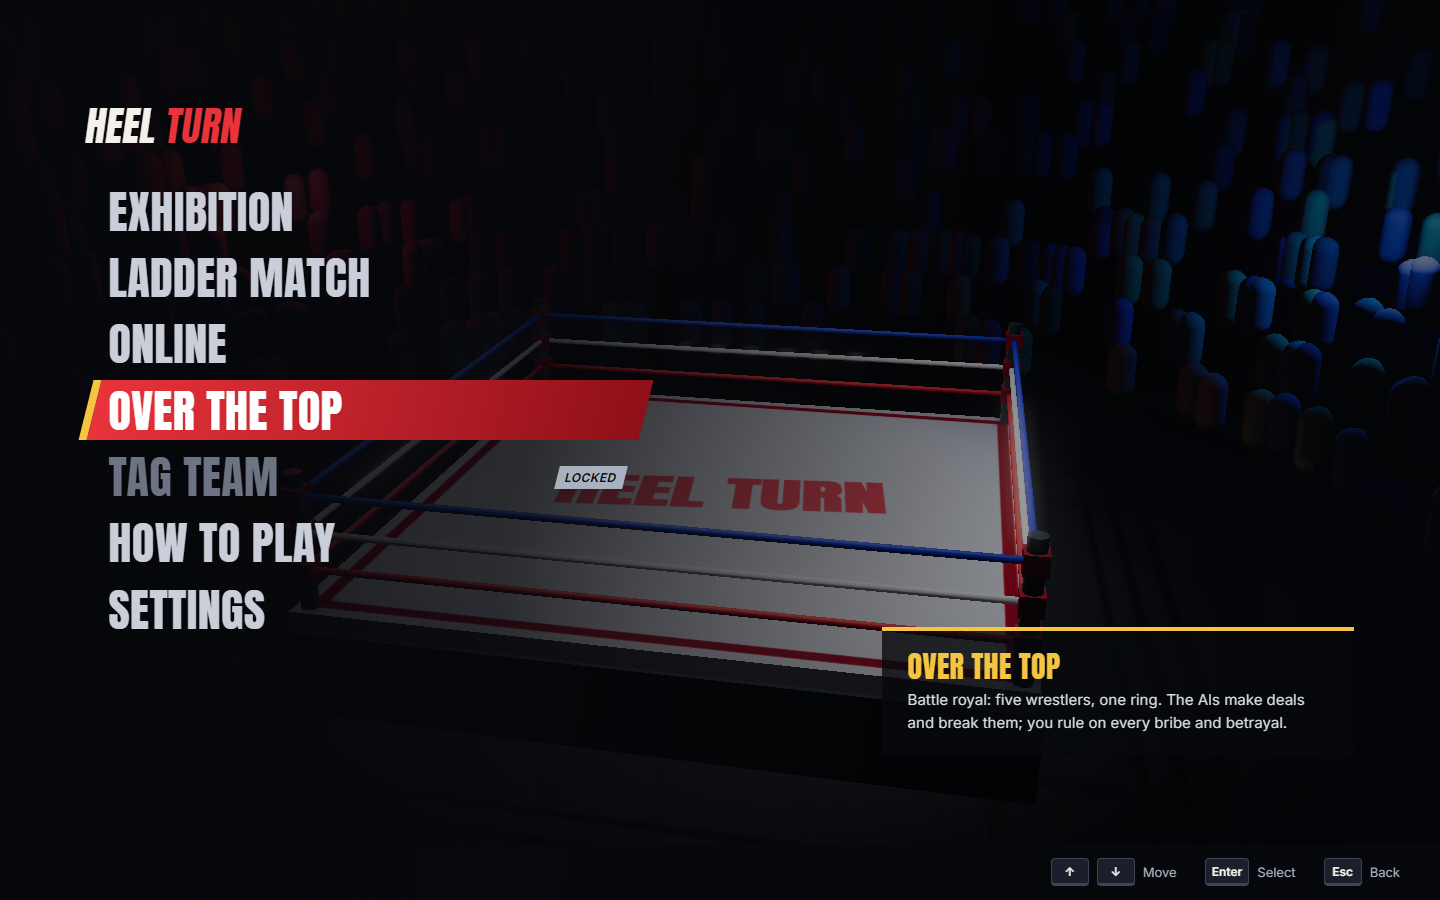
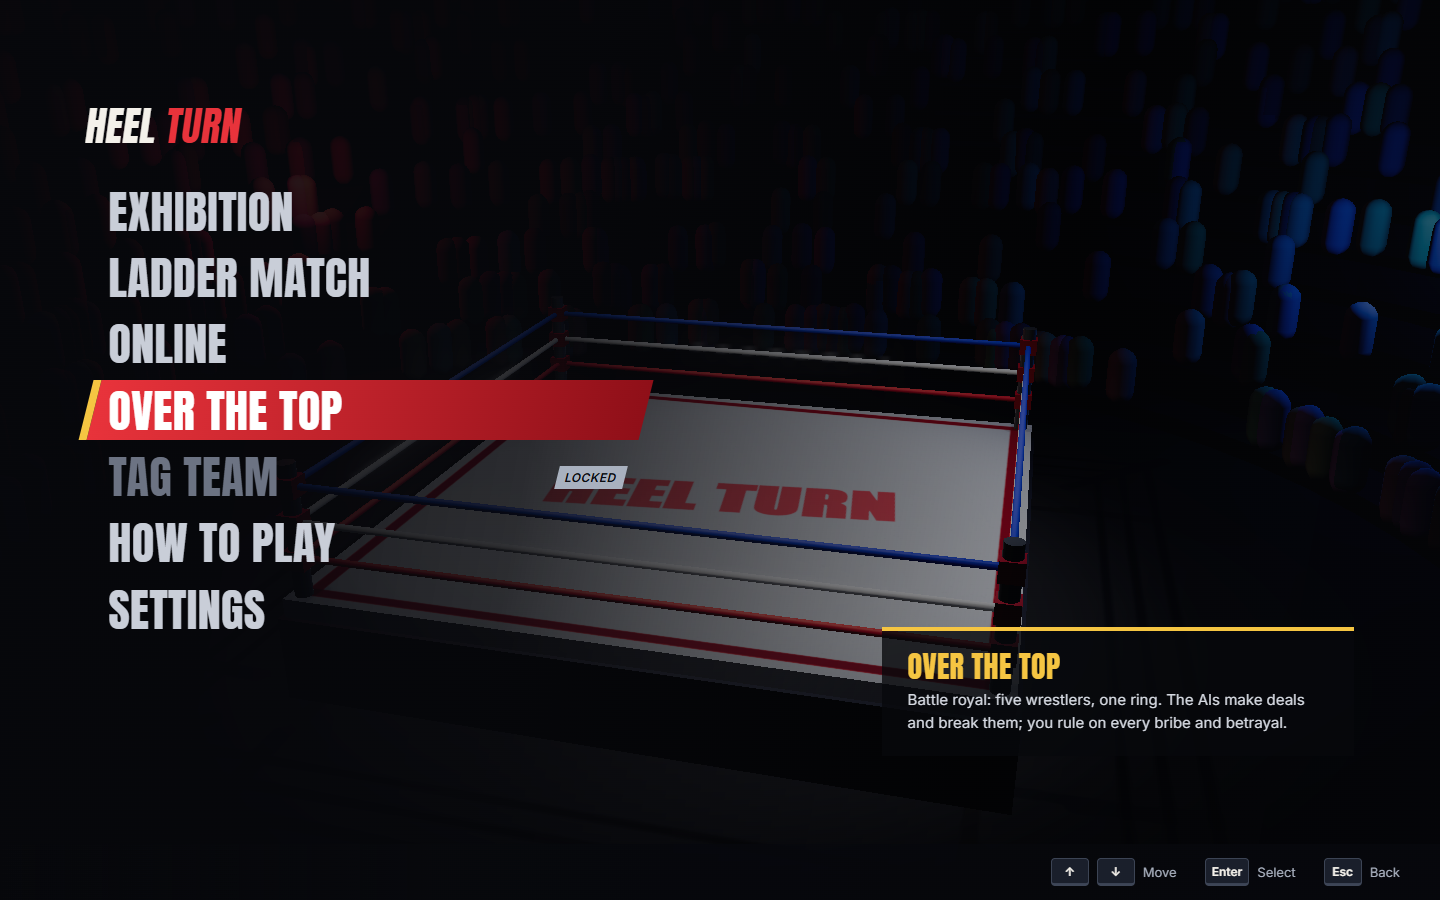
fix(royal): layout pass (rail log, odds closed by default, one-line keys, centred camera), named odds rows, betrayal that lands, feel impact attacker slot

diff --git a/game/royal-client.js b/game/royal-client.js
@@ -7,7 +7,7 @@ import './ui/odds.css';
 import './ui/royal.css';
 import { mountOdds } from './ui/odds.js';
 import { ROSTER_ASSETS } from './shared/roster-assets.js';
-import { adoptBand } from './shared/royal.js';
+import { adoptBand, snapshotRoyal } from './shared/royal.js';
 
 // The fifth body (Kid Riot): registered here so shared/roster-assets.js stays the attire lane's file.
 ROSTER_ASSETS.riot ||= {
@@ -29,22 +29,35 @@ export function createRoyalClient({ logRow, planHtml, decide }) {
 
   function el(tag, cls, html) { const n = document.createElement(tag); n.className = cls; if (html != null) n.innerHTML = html; return n; }
 
-  function start({ matchId, commissioner = true, online = false }) {
+  // humans: [{ slot, id }] so the book names them by their wrestler ("Kane (you)"), never "Player one".
+  function start({ matchId, commissioner = true, online = false, humans = [], mySlot = 0 }) {
     stop();
     document.body.classList.add('royal');
+    const keys = document.querySelector('.keys');
+    const keysHtml = keys?.innerHTML;
+    if (keys) keys.innerHTML = '<kbd>WASD</kbd> move <kbd>J</kbd> strike <kbd>K</kbd> grapple <kbd>L</kbd> block <kbd>Y</kbd>/<kbd>N</kbd> rule <kbd>O</kbd> odds';
+    const logH = document.querySelector('.log h4');
+    const toggleLog = () => document.body.classList.toggle('log-collapsed');
+    logH?.addEventListener('click', toggleLog);
     const strip = el('div', 'rr-strip'); strip.setAttribute('aria-label', 'Wrestlers in the battle royal');
     const card = el('section', 'rr-card'); card.setAttribute('role', 'alertdialog'); card.setAttribute('aria-live', 'assertive'); card.hidden = true;
     document.body.append(strip, card);
     let odds = null;
-    try { odds = mountOdds(document.body, { match: matchId, api: oddsApi() }); } catch (e) { debug.errors.push('odds ' + e.message); }
-    cur = { matchId, commissioner, online, odds, strip, card, shown: null, inFlight: false, nextAt: 0, last: {}, oddsOn: true };
-    setOdds(true);
+    const names = {};
+    humans.forEach((h, k) => {
+      const n = `${NAMES[h.id]} (${h.slot === mySlot ? 'you' : 'rival'})`;
+      names[ODDS_ID[h.id] || h.id] = n; names[`p${k + 1}`] = n;
+    });
+    try { odds = mountOdds(document.body, { match: matchId, api: oddsApi(), title: 'Over the Top', names }); } catch (e) { debug.errors.push('odds ' + e.message); }
+    cur = { matchId, commissioner, online, odds, strip, card, shown: null, inFlight: false, nextAt: 0, last: {}, oddsOn: false,
+      undo: () => { if (keys) keys.innerHTML = keysHtml; logH?.removeEventListener('click', toggleLog); } };
+    setOdds(false); // closed by default; O slides it over
     card.addEventListener('click', (e) => { const b = e.target.closest('[data-v]'); if (b) vote(b.dataset.v); });
   }
   function stop() {
     if (!cur) return;
-    cur.strip.remove(); cur.card.remove(); cur.odds?.destroy();
-    document.body.classList.remove('royal', 'odds-open');
+    cur.strip.remove(); cur.card.remove(); cur.odds?.destroy(); cur.undo();
+    document.body.classList.remove('royal', 'odds-open', 'banner-on', 'log-collapsed');
     cur = null;
   }
   function setOdds(on) { if (!cur) return; cur.oddsOn = on; cur.odds?.show(on); document.body.classList.toggle('odds-open', !!(on && cur.odds)); }
@@ -84,9 +97,9 @@ export function createRoyalClient({ logRow, planHtml, decide }) {
   function paintStrip(st) {
     const al = st.alliance;
     const rows = st.w.map((w, i) => {
-      const ally = al && (al.a === i ? al.b : al.b === i ? al.a : -1);
-      const tag = w.out ? 'OUT' : !w.entered ? (st.nextEntry != null && st.w.findIndex((x) => !x.entered) === i ? `IN ${Math.ceil(st.nextEntry)}s` : 'WAITING')
-        : ally >= 0 && ally !== undefined ? `WITH ${NAMES[st.w[ally].id].toUpperCase()}` : w.human ? 'YOU' : '';
+      const ally = !al ? -1 : al.a === i ? al.b : al.b === i ? al.a : -1;
+      const tag = w.out ? 'ELIMINATED' : !w.entered ? (st.nextEntry != null && st.w.findIndex((x) => !x.entered) === i ? `IN ${Math.ceil(st.nextEntry)}s` : 'WAITING')
+        : ally >= 0 ? `WITH ${NAMES[st.w[ally].id].toUpperCase()}` : w.human ? 'YOU' : '';
       const target = al && al.target === i && !w.out ? ' rr-hunted' : '';
       return `<div class="rr-w${w.out ? ' out' : ''}${!w.entered ? ' wait' : ''}${target}" style="--t:${TINT[w.id] || '#f5c542'}">
         <div class="rr-n">${esc(NAMES[w.id] || w.id)}${w.human ? '<b>P' + (i + 1) + '</b>' : ''}</div>
@@ -100,7 +113,11 @@ export function createRoyalClient({ logRow, planHtml, decide }) {
 
   function frame(st) {
     if (!cur || !st || st.mode !== 'royal') return;
+    if (st.proposals) st = snapshotRoyal(st); // exhibition hands us the match; online already a snapshot
     paintStrip(st); paintCard(st);
+    // big banners sit above everything; the decision log dims while one shows
+    const b = document.getElementById('banner');
+    document.body.classList.toggle('banner-on', !!b && Number(b.style.opacity) > 0.5);
   }
 
   // ---------- odds feed: entries, eliminations, the envelope and the turn ----------

diff --git a/game/shared/royal.js b/game/shared/royal.js
@@ -15,14 +15,16 @@
 // Events (besides sim.js's): agent {row}, alliance {a, b, target}, entrant {slot}, eliminated {slot, by},
 //   betrayal {by, on}, verdict {id, kind, decision, bandId}, bribe {decision}.
 import { T } from './tuning.js';
-import { ROSTER, RING, MAT_Y, INTRO_SECS, short } from './sim.js';
+import { ROSTER, RING, MAT_Y, INTRO_SECS, short as fullShort } from './sim.js';
 import { think } from './ai.js';
 import { onHit, impact, moveSpeed } from './drama.js';
 
 export const ROYAL_EXTRA = { riot: { name: 'Kid Riot', tint: 0xf59e0b } }; // the fifth body for a full card
 const CAST = { ...ROSTER, ...ROYAL_EXTRA };
+const CALL = { vex: 'Vex', kane: 'Kane', silas: 'Crane', mae: 'Mae', riot: 'Riot' }; // what the booth calls them
+const short = (w) => CALL[w.id] || fullShort(w);
 export const R = {
-  max: 5, startAi: 2, entryEvery: 8, bribeAt: 15, tossHp: 40, spentHp: 15,
+  max: 5, startAi: 2, entryEvery: 5, bribeAt: 15, tossHp: 40, spentHp: 15,
   betrayAge: 10, betrayHp: 70, betrayMaxAge: 18, lapse: 20, awaySecs: 10, foeEvery: 1.2,
 };
 const AI_ORDER = ['silas', 'vex', 'mae', 'kane', 'riot'];
@@ -146,6 +148,10 @@ function director(m, dt) {
   if (al) {
     const A = m.w[al.a], B = m.w[al.b], tgt = m.w[al.target];
     if (A.out || B.out) { m.alliance = null; }
+    else if (!m.w.some((w) => !w.out && w !== A && w !== B)) { // only the partners are left: it is every man for himself
+      m.alliance = null; A.intent = B.intent = 'pressure';
+      emit(m, { k: 'call', text: `It's down to the two partners! ${short(A)} and ${short(B)} square up!` });
+    }
     else {
       if (!live(tgt)) { // the shared target is gone: pick the next human, or the alliance is all that is left
         const next = humans[0];
@@ -179,7 +185,7 @@ function director(m, dt) {
   if (m.betray && m.betray.status === 'executing') {
     m.betray.t += dt;
     const by = m.w[m.betray.by], on = m.w[m.betray.on];
-    if (!live(by) || !live(on) || m.betray.t > 14) { m.betray.status = 'fizzled'; if (live(by)) by.intent = 'pressure'; }
+    if (by.out || on.out || m.betray.t > 14) { m.betray.status = 'fizzled'; if (!by.out) by.intent = 'pressure'; }
     else { by.foe = on.slot; by.intent = 'betray'; }
   }
   if (m.lou.awayT > 0) {
@@ -194,7 +200,7 @@ function propose(m, kind, by, on, reason, cites, bandId = null) {
   const p = { id, kind, by, on, reason, cites, status: 'pending', at: m.clock, bandId };
   m.proposals.push(p);
   const w = m.w[by];
-  agent(m, { wrestler: kind === 'bribe' ? 'lou' : w.id, intent: kind === 'bribe' ? 'bribe_accept' : 'betray', target: kind === 'bribe' ? w.id : m.w[on].id, reason: `${reason} -> waits for the commissioner`, cites }, kind === 'bribe' ? 'REF' : 'BAND');
+  agent(m, { wrestler: kind === 'bribe' ? 'lou' : w.id, intent: kind === 'bribe' ? 'bribe_accept' : 'betray', target: kind === 'bribe' ? w.id : m.w[on].id, reason: `${reason}. Waiting on the commissioner.`, cites }, kind === 'bribe' ? 'REF' : 'BAND');
   emit(m, { k: 'proposal', id, kind });
   return p;
 }
@@ -227,7 +233,7 @@ export function verdict(m, id, decision, why = '') {
   if (p.kind === 'betray') {
     const on = m.w[p.on];
     agent(m, { wrestler: by.id, intent: 'betray', target: on.id, reason: ok ? `${short(by)} turns on ${short(on)}` : `${short(by)} stays with ${short(on)}, for now`, cites: p.cites, [ok ? 'approved_by' : 'vetoed_by']: who });
-    if (ok && live(by) && live(on)) {
+    if (ok && !by.out && !on.out) {
       m.betray = { by: p.by, on: p.on, status: 'executing', t: 0 };
       by.foe = p.on; by.intent = 'betray';
       emit(m, { k: 'call', text: `Wait... ${short(by)} is looking at ${short(on)}, not the target. Oh no.` });
@@ -348,6 +354,11 @@ function aiStep(m, i, dt) {
   if (busy(me)) return;
   const foe = m.w[me.foe];
   if (!foe) { anim(me, 'Idle'); return; }
+  // the turn: walk up behind the partner (who is busy with the shared target) and take him over the top
+  if (m.betray?.status === 'executing' && m.betray.by === i && foe.slot === m.betray.on) {
+    if (dist(me, foe) < 1.25 && !['down', 'thrown', 'out'].includes(foe.state)) return act(m, i, 'grapple');
+    if (dist(me, foe) >= 1.25) return moveToward(me, foe.x, foe.z, dt, 2.6);
+  }
   think(m, i, dt, {
     foe, intent: me.intent,
     act: (k) => act(m, i, k),

diff --git a/game/ui/royal.css b/game/ui/royal.css
@@ -1,16 +1,24 @@
 /* OVER THE TOP: roster strip + commissioner card. Same broadcast package as menu.css (red / gold / ink, Anton,
    -14deg slashes); tokens repeated with fallbacks. The card is the one loud element; everything else stays quiet. */
 body.royal .hud { display: none; }
-body.royal.odds-open .log { right: 352px; }
+/* decision log: a narrow right rail under the strip, newest 3 rows, older ones fade; click the title to collapse */
+body.royal .log { top: 96px; bottom: auto; right: 16px; width: 280px; max-height: 34vh; z-index: 11; transition: opacity 160ms ease; }
+body.royal .log h4 { cursor: pointer; }
+body.royal .log p:nth-child(2) { opacity: .72; } body.royal .log p:nth-child(3) { opacity: .45; }
+body.royal .log p:nth-child(n+4) { display: none; }
+body.royal.log-collapsed .log #log { display: none; }
+body.royal.banner-on .log { opacity: .2; }
+body.royal #banner { z-index: 30; }
+body.royal .keys { white-space: nowrap; overflow: hidden; text-overflow: ellipsis; max-width: calc(100vw - 32px); box-sizing: border-box; }
+body.royal .odds-panel { z-index: 25; }
 
 .rr-strip {
   position: fixed; top: 14px; left: 50%; transform: translateX(-50%); z-index: 12; display: flex; gap: 8px;
   pointer-events: none; max-width: calc(100vw - 32px); font-family: Inter, system-ui, sans-serif;
 }
-body.royal.odds-open .rr-strip { left: calc((100vw - 336px) / 2); }
 body:not(.in-match) .rr-strip, body:not(.in-match) .rr-card { display: none; }
 .rr-w { width: 128px; padding: 6px 8px 5px; background: rgba(7, 8, 12, .82); border-top: 4px solid var(--t); }
-.rr-w.out { opacity: .38; }
+.rr-w.out { opacity: .38; } .rr-w.out .rr-n { text-decoration: line-through; }
 .rr-w.wait { opacity: .6; border-top-style: dashed; }
 .rr-w.rr-hunted { box-shadow: inset 0 0 0 2px var(--red, #e8333b); }
 .rr-n { font: 400 19px/1 Anton, Impact, sans-serif; text-transform: uppercase; letter-spacing: .02em; display: flex; justify-content: space-between; align-items: baseline; }
@@ -54,6 +62,6 @@ body:not(.in-match) .rr-strip, body:not(.in-match) .rr-card { display: none; }
 @media (max-width: 720px) {
   .rr-strip { gap: 4px; top: 8px; } .rr-w { width: 18vw; padding: 4px 5px; } .rr-n { font-size: 14px; } .rr-tag { display: none; }
   .rr-card { bottom: 52px; }
-  body.royal.odds-open .log { right: 16px; }
+  body.royal .log { width: auto; left: 16px; top: auto; bottom: 52px; max-height: 18vh; }
 }
 @media (prefers-reduced-motion: reduce) { .rr-card { transition: none; } .rr-hp i { transition: none; } }

diff --git a/game/ui/odds.js b/game/ui/odds.js
@@ -97,7 +97,7 @@ export function mountOdds(root, opts = {}) {
   }
 
   function paintBoard(odds, mine) {
-    $('.op-match').textContent = match === 'next' ? '' : match.toUpperCase();
+    $('.op-match').textContent = opts.title || ''; // a match name, never the raw id
     const ol = $('.op-rows');
     ol.replaceChildren(...odds.board.map((r) => {
       const li = el('li', 'op-row');
@@ -106,8 +106,9 @@ export function mountOdds(root, opts = {}) {
       li.classList.toggle('lost', !!odds.settled && !won);
       const btn = el('button', 'op-pick');
       btn.disabled = !!odds.settled;
-      btn.setAttribute('aria-label', `Bet ${chip} fan points on ${r.name}, pays ${r.decimal_odds} times`);
-      btn.append(el('span', 'op-name display', r.name), el('span', 'op-line', line(r.line)), el('span', 'op-pay', `x${r.decimal_odds}`));
+      const name = (opts.names || {})[r.wrestler] || r.name;
+      btn.setAttribute('aria-label', `Bet ${chip} fan points on ${name}, pays ${r.decimal_odds} times`);
+      btn.append(el('span', 'op-name display', name), el('span', 'op-line', line(r.line)), el('span', 'op-pay', `x${r.decimal_odds}`));
       const bar = el('span', 'op-bar');
       bar.style.setProperty('--p', r.win_prob);
       bar.append(el('span', 'op-pct', pct(r.win_prob)));
@@ -133,9 +134,9 @@ export function mountOdds(root, opts = {}) {
         v.setAttribute('aria-label', `Vote ${label(c)}: ${pct(p.share[c])} of ${total} votes`);
         const bar = el('span', 'op-vbar');
         bar.style.setProperty('--p', p.share[c] || 0);
-        v.append(bar, el('span', 'op-c display', label(c)), el('span', 'op-vp', pct(p.share[c] || 0)));
+        v.append(bar, el('span', 'op-c display', label(c)), el('span', 'op-vp', `${pct(p.share[c] || 0)} of fans`));
         v.onclick = () => vote(p.id, c);
-        const b = el('button', 'op-back', `+${chip} x${p.decimal_odds[c]}`);
+        const b = el('button', 'op-back', `Bet ${chip}, win ${Math.round(chip * p.decimal_odds[c])}`);
         b.disabled = p.status !== 'open';
         b.setAttribute('aria-label', `Bet ${chip} fan points on ${label(c)}`);
         b.onclick = () => bet(c, p.id);

diff --git a/game/feel/index.js b/game/feel/index.js
@@ -56,7 +56,7 @@ export function createFeel({ scene, camera, getViews }) {
     if (e.k === 'impact') {
       lastImpact[e.slot] = t;
       const at = new THREE.Vector3(e.x, MAT_Y + 0.9, e.z), big = e.kind !== 'strike';
-      const att = w?.[1 - e.slot], dx = att ? e.x - att.x : 0, dz = att ? e.z - att.z : 0, len = Math.hypot(dx, dz) || 1;
+      const att = w?.[e.by ?? 1 - e.slot], dx = att ? e.x - att.x : 0, dz = att ? e.z - att.z : 0, len = Math.hypot(dx, dz) || 1;
       addTrauma(V.shake[big ? (e.kind === 'finisher' ? 'finisher' : 'slam') : 'strike'] * (0.6 + e.dmg / 25));
       kick(e.kind === 'finisher' ? 'finisher' : big ? 'slam' : 'strike', at);
       if (big) { fx.dust(e.x, e.z, e.kind === 'finisher' ? 1 : 0.65); fx.sweat(e.x, MAT_Y - 0.9, e.z, 0, 0, 0.5); sfx.thud(e.kind === 'finisher' ? 1 : 0.7); }
@@ -65,7 +65,7 @@ export function createFeel({ scene, camera, getViews }) {
         ui.flash(V.flash.finisher); sfx.pop(1); finisherLanding = true;
         slowmo(V.slowmo.finisher, 0.45);
         if (cut?.kind === 'finisher') cut.until = t + 1.3;
-        ui.announce(`<b>${w ? short(w[1 - e.slot]) : ''}</b> plants him. The building is shaking.`, 2.6);
+        ui.announce(`<b>${w?.[e.by ?? 1 - e.slot] ? short(w[e.by ?? 1 - e.slot]) : ''}</b> plants him. The building is shaking.`, 2.6);
       } else if (e.kind === 'clothesline') { sfx.pop(0.5); ui.announce('Off the ropes, <b>right into the clothesline!</b>'); }
     } else if (e.k === 'finisher') {
       cut = { kind: 'finisher', until: t + 3.2, slot: -1 }; ui.cinematic(true); slowmo(V.slowmo.finisher, V.slowmo.finisherSecs);

diff --git a/game/main.js b/game/main.js
@@ -330,7 +330,7 @@ function startLocalRoyal(p1) {
   const id = 'r' + Date.now().toString(36);
   layer.matchStart({ match: id, wrestlers: match.w.map((w) => w.id), humans: match.w.map((w) => w.human) });
   layer.bind(match);
-  royal.start({ matchId: id, commissioner: true });
+  royal.start({ matchId: id, commissioner: true, humans: [{ slot: 0, id: p1 }], mySlot: 0 });
 }
 
 const ROOM_CHARS = 'ABCDEFGHJKLMNPQRSTUVWXYZ23456789';
@@ -539,6 +539,10 @@ function frame() {
       // intro sweep: swing from a high side angle down to the broadcast position over INTRO_SECS
       const k = 1 - st.introT / INTRO_SECS, a = (1 - k) * 2.2, r = 9 + 5 * (1 - k);
       want = new THREE.Vector3(Math.sin(a) * r, 4 + 4 * (1 - k), Math.cos(a) * r);
+    } else if (st.mode === 'royal') {
+      // battle royal: keep the whole ring centred and drift only a little toward the action
+      want = new THREE.Vector3(mid.x * 0.25 + Math.sin(t * 0.1) * 0.8, 7.4, 11.2 + mid.z * 0.25);
+      mid.multiplyScalar(0.25);
     } else want = new THREE.Vector3(mid.x * 0.5 + Math.sin(t * 0.12) * 2, 5.2 + spread * 0.35, mid.z + 8.5 + spread * 0.6);
     camera.position.lerp(want, st.introT > 0 ? 0.06 : 0.04);
     feel.addTrauma(shake * 0.5); shake = 0;

diff --git a/game/shared/drama.js b/game/shared/drama.js
@@ -27,7 +27,7 @@ export function impact(m, def, att, kind, dmg) {
   const hs = S.hitstop[kind] ?? S.hitstop.strike;
   m.freeze = Math.max(m.freeze || 0, hs);
   if (att) addHeat(att, kind === 'strike' ? S.heat.strike : kind === 'finisher' ? S.heat.finisher : S.heat.slam);
-  emit(m, { k: 'impact', kind, slot: m.w.indexOf(def), dmg, hitstop: hs, x: def.x, y: def.y, z: def.z });
+  emit(m, { k: 'impact', kind, slot: m.w.indexOf(def), by: att ? m.w.indexOf(att) : -1, dmg, hitstop: hs, x: def.x, y: def.y, z: def.z });
 }
 
 // Top of step(). Returns true while the sim is frozen in hitstop.

diff --git a/game/ui/online_royal.py b/game/ui/online_royal.py
@@ -1,0 +1,43 @@
+"""Two tabs join one OVER THE TOP room via ?room=CODE&royal=1, each picks a wrestler, both see the same 5-wrestler ring.
+Usage: python game/ui/online_royal.py [base]   base like http://localhost:5178/?mute=1&server=ws://localhost:2577
+Writes docs/shots/royal-online-{a,b}.png; prints each tab's slot, card and whether the snapshots agree."""
+import json
+import random
+import string
+import sys
+from pathlib import Path
+from playwright.sync_api import sync_playwright
+
+BASE = sys.argv[1] if len(sys.argv) > 1 else "http://localhost:5178/?mute=1"
+OUT = Path(__file__).resolve().parents[2] / "docs" / "shots"
+CODE = "".join(random.choice("ABCDEFGHJKLMNPQRSTUVWXYZ23456789") for _ in range(6))
+url = f"{BASE}&room={CODE}&royal=1"
+
+with sync_playwright() as p:
+    b = p.chromium.launch(args=["--use-gl=angle", "--enable-unsafe-swiftshader", "--mute-audio"])
+    tabs = []
+    for i, right in enumerate([0, 2]):
+        pg = b.new_page(viewport={"width": 1280, "height": 800})
+        errs = []
+        pg.on("pageerror", lambda e, errs=errs: errs.append(str(e)))
+        pg.goto(url)
+        pg.wait_for_function("window.HEEL_UI && HEEL_UI.state === 'select'", timeout=60000)
+        for _ in range(right): pg.keyboard.press("ArrowRight"); pg.wait_for_timeout(150)
+        pg.keyboard.press("Enter")
+        pg.wait_for_function("G.state && G.state.mode === 'royal'", timeout=15000)
+        tabs.append((pg, errs))
+        pg.wait_for_timeout(1500)
+    tabs[0][0].wait_for_function("G.state && G.state.clock > 6", timeout=40000)
+    out = []
+    for k, (pg, errs) in enumerate(tabs):
+        pg.keyboard.down("KeyD"); pg.wait_for_timeout(600); pg.keyboard.up("KeyD")
+        s = pg.evaluate("""(() => { const s = G.state; return { slot: G.session.slot, room: G.session.room, card: s.w.map(w => w.id),
+          humans: s.w.filter(w => w.human).map(w => w.id), entered: s.w.filter(w => w.entered).length, clock: +s.clock.toFixed(1),
+          p1x: +s.w[0].x.toFixed(2), p2x: +s.w[1].x.toFixed(2) }; })()""")
+        s["errors"] = errs[:3]
+        out.append(s)
+        pg.screenshot(path=str(OUT / f"royal-online-{'ab'[k]}.png"))
+    print(json.dumps(out, indent=1))
+    same = out[0]["room"] == out[1]["room"] and out[0]["card"] == out[1]["card"] and {out[0]["slot"], out[1]["slot"]} == {0, 1}
+    print("SAME ROOM, SAME CARD, SLOTS 0 AND 1:", same)
+    b.close()

diff --git a/game/ui/royal_play.py b/game/ui/royal_play.py
@@ -14,7 +14,7 @@ OUT.mkdir(parents=True, exist_ok=True)
 def run(b, key, tag):
     pg = b.new_page(viewport={"width": 1440, "height": 900})
     errs = []
-    pg.on("pageerror", lambda e: errs.append("pageerror: " + str(e)))
+    pg.on("pageerror", lambda e: errs.append("pageerror: " + str(e) + " " + (e.stack or "")[:700]))
     pg.on("console", lambda m: m.type == "error" and errs.append("console: " + m.text))
     pg.goto(URL)
     pg.wait_for_function("window.HEEL_UI && HEEL_UI.state === 'title'", timeout=60000)
@@ -35,8 +35,15 @@ def run(b, key, tag):
           entered: m.w.filter(w => w.entered).length, betray: m.betray && m.betray.status, alliance: !!m.alliance, card: !!document.querySelector('.rr-card:not([hidden])'),
           banner: (document.getElementById('banner') || {}).textContent, bannerOn: getComputedStyle(document.getElementById('banner')).opacity > 0.5,
           log: (document.getElementById('log') || {}).innerText || '' }; })()""")
-        if s["entered"] == 5 and s["inRing"] >= 4 and "ring" not in shots and tag == "approve":
+        if s["entered"] == 5 and "ring" not in shots and tag == "approve":
             shots.add("ring"); pg.screenshot(path=str(OUT / "royal-ring.png"))
+            pg.set_viewport_size({"width": 1920, "height": 1080}); pg.wait_for_timeout(400)
+            pg.screenshot(path=str(OUT / "royal-ring-1920.png"))
+            pg.keyboard.press("o"); pg.wait_for_timeout(1800)
+            pg.screenshot(path=str(OUT / "royal-odds-1920.png"))
+            pg.set_viewport_size({"width": 1440, "height": 900}); pg.wait_for_timeout(300)
+            pg.screenshot(path=str(OUT / "royal-odds.png"))
+            pg.keyboard.press("o")
         if "ALLIANCE" in s["log"] and "ally" not in shots:
             shots.add("ally"); pg.screenshot(path=str(OUT / f"royal-alliance-{tag}.png"))
         if s["card"]:

diff --git a/game/tools/elim_repro.py b/game/tools/elim_repro.py
@@ -1,0 +1,17 @@
+"""Headless repro: start Over the Top, toss slot 2 out by hand, print any page error with its stack."""
+from playwright.sync_api import sync_playwright
+
+with sync_playwright() as p:
+    b = p.chromium.launch(args=["--use-gl=angle", "--enable-unsafe-swiftshader", "--mute-audio"])
+    pg = b.new_page()
+    errs = []
+    pg.on("pageerror", lambda e: errs.append(str(e) + "\n" + (e.stack or "")[:900]))
+    pg.goto("http://localhost:5178/?mute=1&oddsPort=8791")
+    pg.wait_for_function("window.HEEL && window.HEEL_UI", timeout=60000)
+    pg.evaluate("HEEL.startMatch({ mode: 'royal', p1: 'kane' }).then(() => HEEL_UI.go('match'))")
+    pg.wait_for_function("G.state && G.state.clock > 1", timeout=20000)
+    pg.evaluate("(() => { const w = G.state.w[2]; w.state = 'thrown'; w.t = 0; w.arc = { fx: w.x, fy: w.y, fz: w.z, tx: 5, tz: 0, dur: 0.3, toss: true, dmg: 28, by: 1 }; })()")
+    pg.wait_for_timeout(2500)
+    print("clock", pg.evaluate("G.state.clock"), "order", pg.evaluate("G.state.order"))
+    print("\n".join(errs) or "no errors")
+    b.close()
